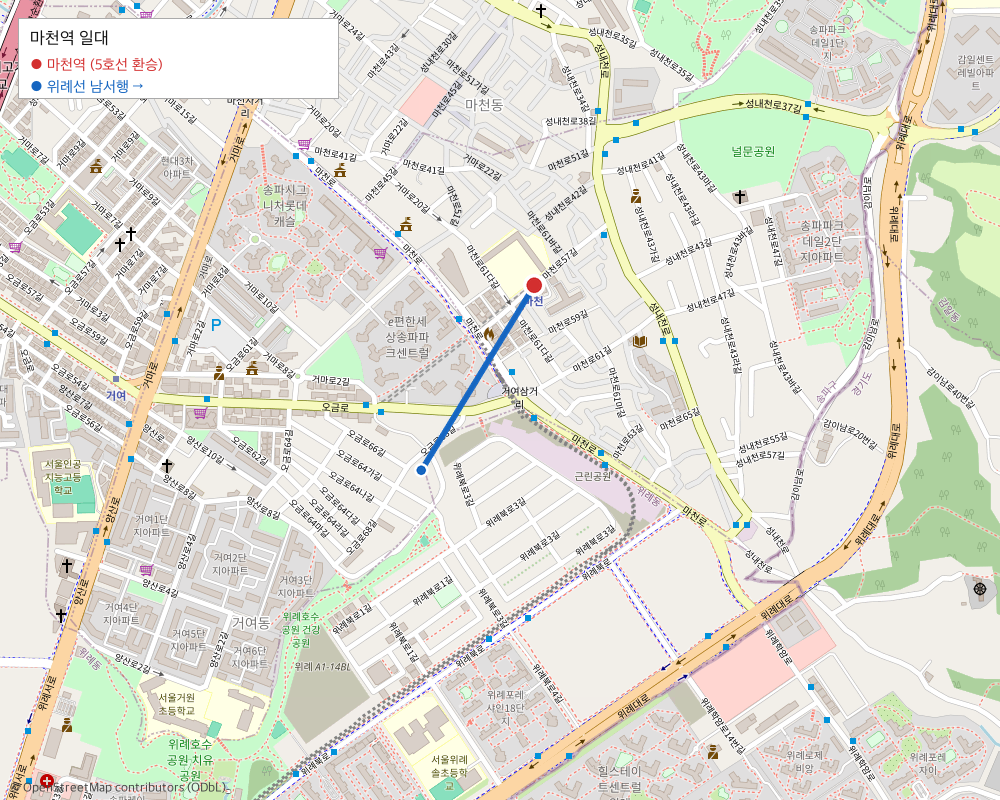
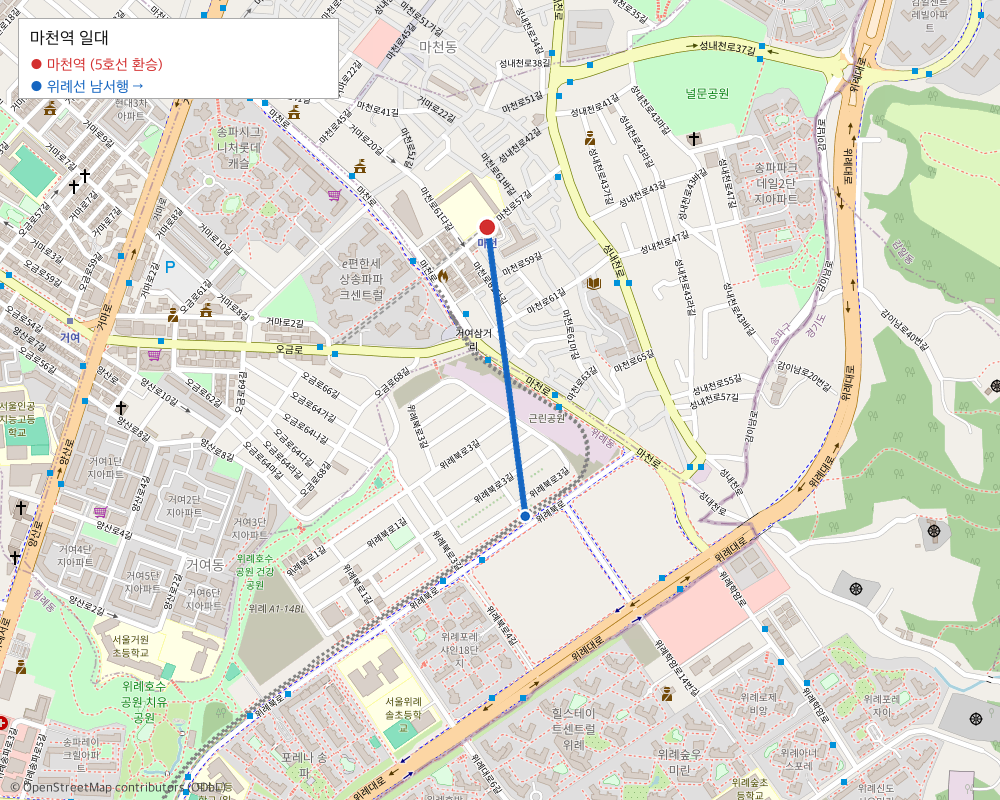
Fix hardcoded coordinates in close-up maps to use STOPS array
근접 지도 3종(마천·남위례)의 하드코딩 좌표를
STOPS 배열 참조로 통일하여 좌표 불일치 해소.

diff --git a/scripts/make_wirye_maps.py b/scripts/make_wirye_maps.py
@@ -116,13 +116,15 @@ print("   저장 완료")
 # ═══════════════════════════════════════════════
 print("3/5 마천역 근접…")
 m = StaticMap(1000, 800, url_template=TILE)
-m.add_line(Line([p(37.494953,127.152724), p(37.491800,127.150300)], MAIN_C, 6))
-m.add_marker(CircleMarker(p(37.494953,127.152724),"white",22))
-m.add_marker(CircleMarker(p(37.494953,127.152724),XFER_C,15))
-m.add_marker(CircleMarker(p(37.491800,127.150300),"white",14))
-m.add_marker(CircleMarker(p(37.491800,127.150300),MAIN_C,9))
+_macheon = p(STOPS[0][0], STOPS[0][1])
+_bukwirye = p(STOPS[1][0], STOPS[1][1])
+m.add_line(Line([_macheon, _bukwirye], MAIN_C, 6))
+m.add_marker(CircleMarker(_macheon,"white",22))
+m.add_marker(CircleMarker(_macheon,XFER_C,15))
+m.add_marker(CircleMarker(_bukwirye,"white",14))
+m.add_marker(CircleMarker(_bukwirye,MAIN_C,9))
 
-img = m.render(zoom=16, center=[127.152, 37.493])
+img = m.render(zoom=16, center=[127.153, 37.492])
 draw = ImageDraw.Draw(img)
 bx,by = 18,18
 draw.rectangle([bx,by,bx+320,by+80], fill=(255,255,255,220), outline="#AAA")
@@ -158,17 +160,18 @@ print("   저장 완료")
 # ═══════════════════════════════════════════════
 print("5/5 남위례역 근접…")
 m = StaticMap(1000, 800, url_template=TILE)
-m.add_line(Line([p(37.470567,127.141962),
-                 p(37.466400,127.140200),
-                 p(37.462772,127.139216)], BRANCH_C, 6))
-m.add_marker(CircleMarker(p(37.462772,127.139216),"white",22))
-m.add_marker(CircleMarker(p(37.462772,127.139216),XFER_C,15))
-m.add_marker(CircleMarker(p(37.466400,127.140200),"white",14))
-m.add_marker(CircleMarker(p(37.466400,127.140200),BRANCH_C,9))
-m.add_marker(CircleMarker(p(37.470567,127.141962),"white",14))
-m.add_marker(CircleMarker(p(37.470567,127.141962),"#888",9))
+_yeoksa = p(STOPS[7][0], STOPS[7][1])
+_tram_sq = p(STOPS[8][0], STOPS[8][1])
+_namwirye = p(STOPS[9][0], STOPS[9][1])
+m.add_line(Line([_yeoksa, _tram_sq, _namwirye], BRANCH_C, 6))
+m.add_marker(CircleMarker(_namwirye,"white",22))
+m.add_marker(CircleMarker(_namwirye,XFER_C,15))
+m.add_marker(CircleMarker(_tram_sq,"white",14))
+m.add_marker(CircleMarker(_tram_sq,BRANCH_C,9))
+m.add_marker(CircleMarker(_yeoksa,"white",14))
+m.add_marker(CircleMarker(_yeoksa,"#888",9))
 
-img = m.render(zoom=16, center=[127.140, 37.466])
+img = m.render(zoom=16, center=[127.141, 37.467])
 draw = ImageDraw.Draw(img)
 bx,by = 18,18
 draw.rectangle([bx,by,bx+360,by+98], fill=(255,255,255,220), outline="#AAA")
